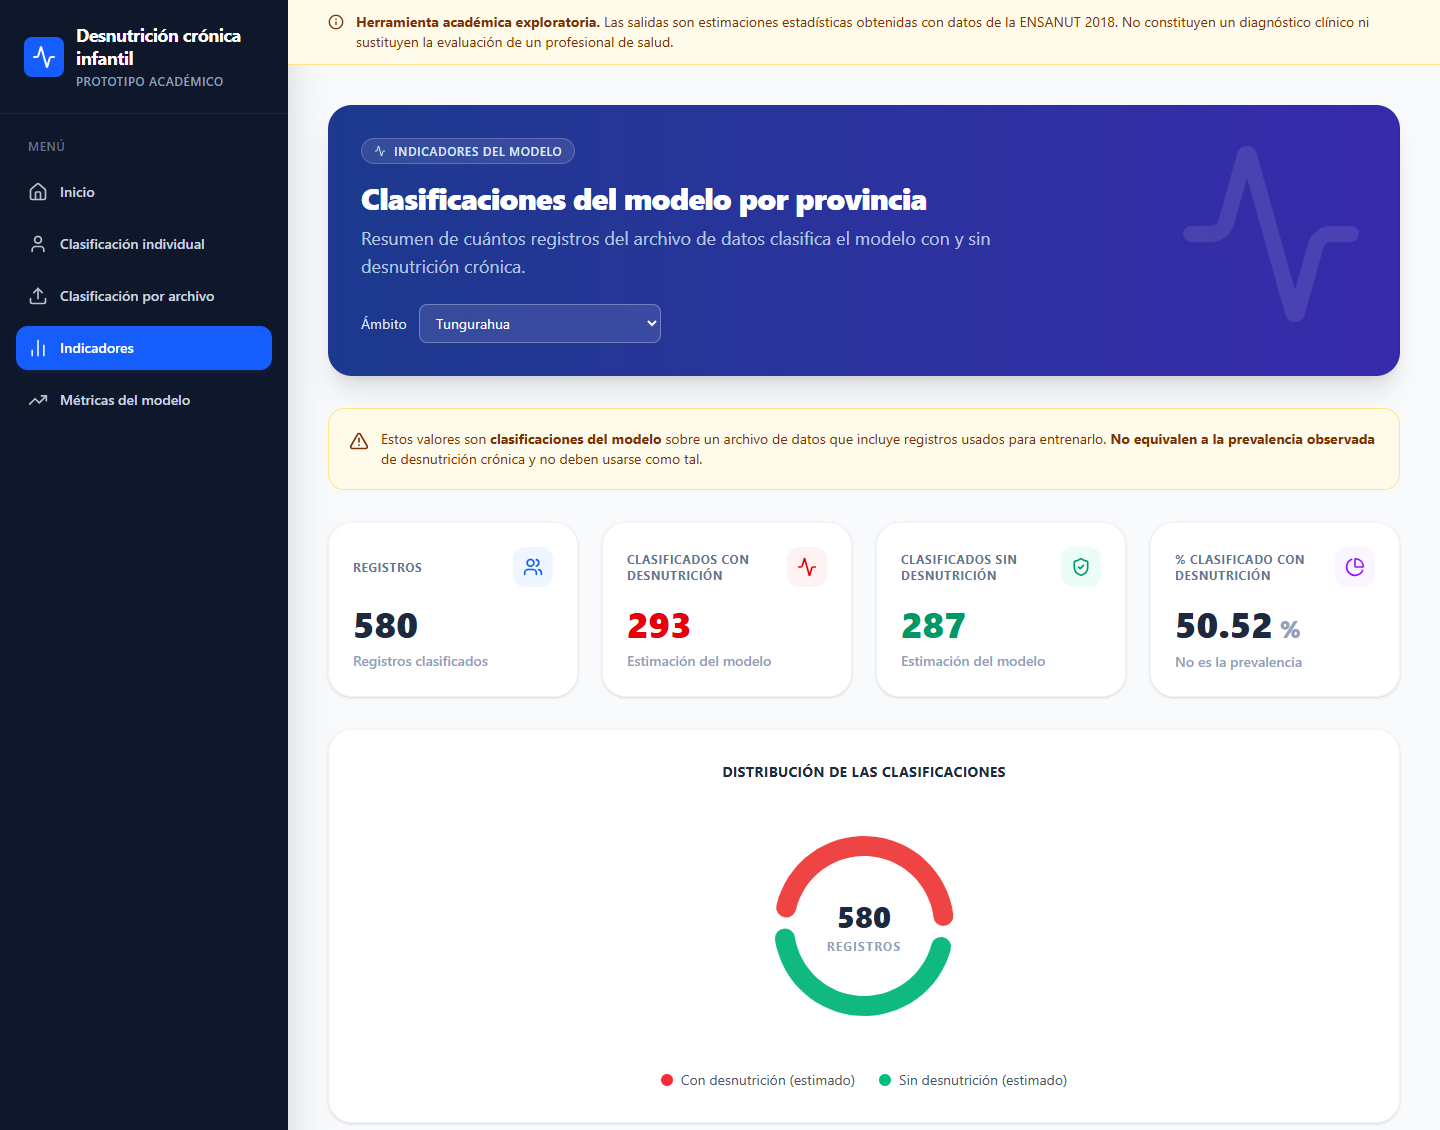
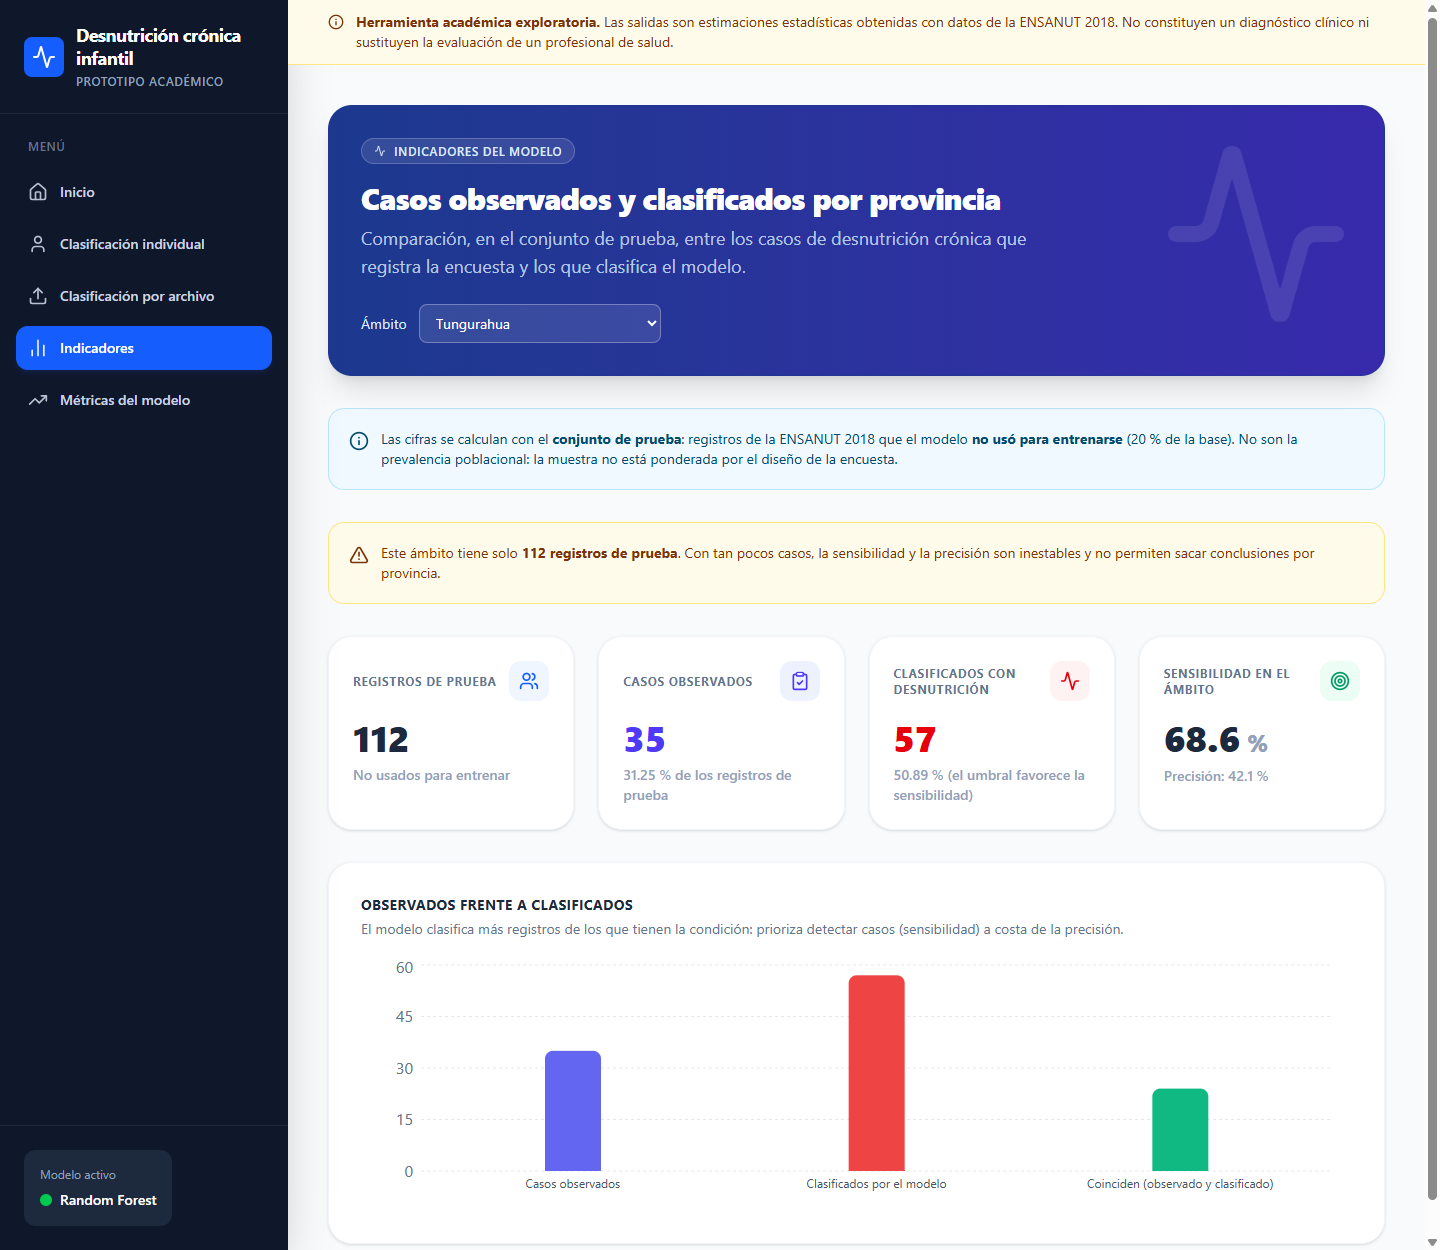
docs(tesis): reflejar la correccion del resumen del tablero
El hallazgo "el resumen usa predicciones sobre datos de entrenamiento" queda
como defecto de la version evaluada inicialmente, corregido en d785b95
(pipeline-v2-fixes) y edf40ae (main).

- Anexo C: CP9 y CP10 re-ejecutados con el servicio corregido (conjunto de
  prueba: 3699 registros, 912 observados, 1887 clasificados; Tungurahua: 112,
  35 y 57) y nota sobre los valores de la version inicial.
- Anexo B.5: descripcion del modulo y captura nueva de Indicadores (Tungurahua,
  con el aviso de pocos registros). Anexo A: data/ y tests/.
- Cap. III: hallazgo redactado como corregido; RF6 pasa a Cumple (13 de 15
  requerimientos, 1 parcial, 1 no); 13 pruebas automaticas aprobadas.
- Cap. II y IV: contrato de /dashboard; se retiran la recomendacion y el
  pendiente correspondientes.
- Anexo E: se agregan los commits del cambio.

Claude-Session: https://claude.ai/code/session_01N4GjRxEMLVoX1YszaZcf4e

diff --git a/TESIS-LATEX/capitulos/cap3-implementacion.tex b/TESIS-LATEX/capitulos/cap3-implementacion.tex
@@ -87,7 +87,7 @@ Se realizaron dos tipos de pruebas, que evalúan aspectos distintos y no deben c
   \item \textbf{Pruebas funcionales de la API:} verifican que el servicio responda según su contrato. Un resultado favorable indica que el software funciona, no que la predicción sea válida clínicamente.
 \end{itemize}
 
-Las pruebas funcionales incluyeron 17 casos (Anexo~C) y las 8 pruebas automáticas del repositorio. Las 8 pruebas y 15 de los 17 casos se cumplieron; fallaron CP14 (archivo Excel enviado directamente a la API) y CP15 (la puntuación del formulario individual casi no varía con los datos). La latencia de \texttt{POST /predict}, medida en 100 solicitudes en ejecución local (sin red), tuvo mediana de 29 ms, percentil 95 de 33 ms y máximo de 38 ms. Como comprobación de consistencia, la probabilidad devuelta por la API para un registro coincidió con la calculada directamente sobre el modelo (0.437).
+Las pruebas funcionales incluyeron 17 casos (Anexo~C) y las 13 pruebas automáticas del repositorio. Las 13 pruebas y 15 de los 17 casos se cumplieron; fallaron CP14 (archivo Excel enviado directamente a la API) y CP15 (la puntuación del formulario individual casi no varía con los datos). La latencia de \texttt{POST /predict}, medida en 100 solicitudes en ejecución local (sin red), tuvo mediana de 29 ms, percentil 95 de 33 ms y máximo de 38 ms. Como comprobación de consistencia, la probabilidad devuelta por la API para un registro coincidió con la calculada directamente sobre el modelo (0.437).
 
 \section{Resultados}
 \subsection{Desempeño en el conjunto de prueba nacional}
@@ -191,12 +191,12 @@ El estudio con datos de la ENDI 2023--2024 reportó AUC de 0.62 a 0.66 para el r
 Las pruebas del sistema revelaron aspectos que deben tenerse en cuenta:
 \begin{itemize}
   \item \textbf{Riesgo y clase no coincidían.} En la versión evaluada inicialmente la clase positiva se asignaba con el umbral de 0.42, pero los niveles de riesgo usaban cortes fijos de 0.50 (medio) y 0.80 (alto). En el caso CP4 la API devolvió clase 1 con probabilidad de 0.437 y riesgo BAJO; en la partición de prueba, 1050 de las 1887 clasificaciones positivas (\SI{55.6}{\percent}) figuraban como BAJO y ALTO nunca se alcanzaba (probabilidad máxima de 0.747). Se corrigió: BAJO coincide ahora con la clase 0, MEDIO va de 0.42 a 0.60 y ALTO desde 0.60 (Anexo~A, Tabla~\ref{tab:riesgo}). Los niveles ordenan los casos, pero no son probabilidades calibradas.
-  \item \textbf{El resumen del tablero usa predicciones sobre datos de entrenamiento.} \texttt{GET /dashboard} calcula los ``casos'' como positivos predichos por el modelo sobre el archivo completo (\num{20510} registros, que incluye los usados para entrenar), por lo que no equivale a la prevalencia observada (\SI{24.7}{\percent}).
+  \item \textbf{El resumen del tablero usaba predicciones sobre datos de entrenamiento.} En la versión evaluada inicialmente, \texttt{GET /dashboard} calculaba los ``casos'' como positivos predichos por el modelo sobre el archivo completo (\num{20510} registros, que incluye los usados para entrenar), por lo que no equivalía a la prevalencia observada (\SI{24.7}{\percent}). Se corrigió: el resumen usa el conjunto de prueba (\num{3699} registros que el modelo no vio al entrenar) y muestra juntos los casos observados (912) y los clasificados (\num{1887}), con la sensibilidad y la precisión del ámbito, que reproducen las métricas del modelo (0.693 y 0.335). En Tungurahua (112 registros) hay 35 casos observados y 57 clasificados, con una sensibilidad de 0.686 que es inestable por el tamaño de la muestra.
   \item \textbf{Imputación previa a la partición y muy alta en variables clave.} Los faltantes se imputaron antes de dividir los datos, y variables muy importantes del modelo tienen más de la mitad de sus valores imputados (peso y talla al nacer). Como un valor imputado coincide con la mediana, el modelo puede estar usando el hecho de que el dato faltaba y no el valor real; su importancia debe interpretarse con esa reserva.
   \item \textbf{El formulario de clasificación individual solo es ilustrativo.} La versión inicial del tablero pedía 8 datos y completaba las otras 106 variables con el valor 0 (y las categóricas con códigos numéricos que el modelo no vio en el entrenamiento): en 270 combinaciones la probabilidad varió solo de 0.436 a 0.512 y todas quedaron clasificadas con desnutrición. Se corrigió: el formulario envía las 114 variables (las no informadas como nulas, que el \textit{Pipeline} imputa) con las categorías válidas y la edad agrupada correcta. Aun así, en 512 combinaciones de prueba la probabilidad varió solo de 0.375 a 0.515 y el \SI{85.5}{\percent} quedó clasificado con desnutrición (CP15), porque el resto de las variables se imputa. Por eso la pantalla lo declara de uso ilustrativo y remite a la clasificación por archivo.
   \item \textbf{Carga de archivos Excel.} La pantalla mencionaba archivos \texttt{.xlsx}, pero el servicio solo lee CSV y un Excel enviado a la API produce una excepción no controlada (CP14). El tablero ahora acepta solo CSV y muestra un mensaje claro con las columnas faltantes (CP16); la API aún no maneja el Excel de forma controlada.
   \item \textbf{Página de métricas del tablero.} Leía los nombres de métricas de la versión anterior (\texttt{accuracy}, \texttt{recall}\ldots) y con la API v2 habría mostrado valores no numéricos; se actualizó para mostrar la sensibilidad, la precisión, el F1, la exactitud balanceada, el ROC-AUC y el PR-AUC de \texttt{metricas\_v2.json}.
-  \item \textbf{Lenguaje de la interfaz.} La interfaz inicial usaba términos clínicos (``Sistema ML Clínico'', ``Predicción Clínica'', ``alto grado de confianza clínica'') y mencionaba XGBoost, aunque el modelo activo es Random Forest. Se corrigió: todas las pantallas muestran un aviso de herramienta académica exploratoria, se retiró el lenguaje clínico, el nombre del modelo se lee de la API y el resumen de indicadores aclara que no es la prevalencia observada (Anexo~B).
+  \item \textbf{Lenguaje de la interfaz.} La interfaz inicial usaba términos clínicos (``Sistema ML Clínico'', ``Predicción Clínica'', ``alto grado de confianza clínica'') y mencionaba XGBoost, aunque el modelo activo es Random Forest. Se corrigió: todas las pantallas muestran un aviso de herramienta académica exploratoria, se retiró el lenguaje clínico, el nombre del modelo se lee de la API y el resumen de indicadores aclara que las cifras son del conjunto de prueba y no la prevalencia poblacional (Anexo~B).
 \end{itemize}
 
 \subsection{Síntesis de resultados}
@@ -214,7 +214,7 @@ La Tabla~\ref{tab:cumplimiento} indica el estado de cada requerimiento según la
     RF3 & Cumple & CP4 a CP7 (Anexo~C)\\ \hline
     RF4 & Parcial & CP8: un CSV de 50 registros devuelve 50 filas; CP14: un archivo Excel produce un error no controlado\\ \hline
     RF5 & Cumple & CP11: métricas idénticas a \texttt{metricas\_v2.json}\\ \hline
-    RF6 & Parcial & CP9, CP10 y CP12 responden, pero el resumen usa predicciones sobre datos de entrenamiento\\ \hline
+    RF6 & Cumple & CP9, CP10 y CP12: el resumen usa el conjunto de prueba y reproduce las métricas de \texttt{metricas\_v2.json}\\ \hline
     RF7 & Cumple & CP13\\ \hline
     RF8 & Cumple & Prueba de contrato de versión del modelo\\ \hline
     RNF1 & Cumple & CP5, CP6 y CP7: HTTP 400 en los tres casos\\ \hline
@@ -222,12 +222,12 @@ La Tabla~\ref{tab:cumplimiento} indica el estado de cada requerimiento según la
     RNF3 & Cumple & CP1 (\texttt{GET /health}). No se midió disponibilidad en el tiempo\\ \hline
     RNF4 & No cumple & La API no implementa autenticación; el CORS está abierto\\ \hline
     RNF5 & Cumple & Semilla y versiones fijadas en \texttt{requirements.txt}\\ \hline
-    RNF6 & Cumple & Módulos separados y 8 pruebas automáticas aprobadas\\ \hline
+    RNF6 & Cumple & Módulos separados y 13 pruebas automáticas aprobadas\\ \hline
     RNF7 & Cumple & Aviso académico visible en todas las pantallas y lenguaje clínico retirado (Anexo~B)\\ \hline
   \end{tabular}
 \end{table}
 
-En síntesis, el prototipo cumple 12 de los 15 requerimientos, 2 parcialmente y 1 no se cumple. El modelo tiene un desempeño moderado (ROC-AUC de 0.677), sobreajuste medido y ninguna validación externa; sus productos son una API funcional con datos completos y un tablero de consulta cuyo formulario individual solo es ilustrativo. Quedan pendientes la autenticación, la corrección en la API del resumen del tablero y de la lectura de Excel, y la validación con una fuente independiente.
+En síntesis, el prototipo cumple 13 de los 15 requerimientos, 1 parcialmente y 1 no se cumple. El modelo tiene un desempeño moderado (ROC-AUC de 0.677), sobreajuste medido y ninguna validación externa; sus productos son una API funcional con datos completos y un tablero de consulta cuyo formulario individual solo es ilustrativo. Quedan pendientes la autenticación, la corrección en la API de la lectura de Excel, y la validación con una fuente independiente.
 
 \section{Cronograma y Presupuesto}
 \subsection{Cronograma de Ejecución}

diff --git a/TESIS-LATEX/capitulos/cap4-conclusiones.tex b/TESIS-LATEX/capitulos/cap4-conclusiones.tex
@@ -11,7 +11,7 @@ Se desarrolló y evaluó un prototipo académico de clasificación de la desnutr
 
 \noindent\hspace*{\parindent}\textbf{Objetivo 4: API y tablero.} Se implementó una API REST con nueve servicios, que valida las 114 variables de entrada, y un tablero web que consume la API para consultar indicadores, métricas y predicciones.
 
-\noindent\hspace*{\parindent}\textbf{Objetivo 5: validación funcional y limitaciones.} Las 8 pruebas automáticas y 15 de los 17 casos de prueba se cumplieron (fallaron el envío de un Excel a la API y la variación de la puntuación del formulario individual), y la latencia mediana fue de 29 ms en ejecución local. Estas pruebas verifican el funcionamiento del software y no la validez predictiva ni clínica. Se identificó que el nivel de riesgo contradecía la clase asignada (corregido: BAJO coincide ahora con la clase 0), que el resumen del tablero usa predicciones sobre datos de entrenamiento, que la puntuación del formulario individual casi no varía con los datos porque el resto de las variables se imputa, y que la API no tiene autenticación.
+\noindent\hspace*{\parindent}\textbf{Objetivo 5: validación funcional y limitaciones.} Las 13 pruebas automáticas y 15 de los 17 casos de prueba se cumplieron (fallaron el envío de un Excel a la API y la variación de la puntuación del formulario individual), y la latencia mediana fue de 29 ms en ejecución local. Estas pruebas verifican el funcionamiento del software y no la validez predictiva ni clínica. Se identificó que el nivel de riesgo contradecía la clase asignada (corregido: BAJO coincide ahora con la clase 0), que el resumen del tablero usaba predicciones sobre datos de entrenamiento (corregido: ahora usa el conjunto de prueba), que la puntuación del formulario individual casi no varía con los datos porque el resto de las variables se imputa, y que la API no tiene autenticación.
 
 \subsection{Limitaciones}
 \begin{itemize}
@@ -32,7 +32,6 @@ Se desarrolló y evaluó un prototipo académico de clasificación de la desnutr
 \section{Recomendaciones y Trabajos Futuros}
 \subsection{Recomendaciones inmediatas}
 \begin{itemize}
-  \item \textbf{Corregir el resumen del tablero:} calcular los indicadores con los datos observados o con el conjunto de prueba, no con predicciones sobre datos de entrenamiento.
   \item \textbf{Corregir la lectura de archivos en la API:} aceptar Excel o rechazarlo con un error controlado.
   \item \textbf{Decidir el futuro del formulario individual:} mantenerlo solo como ilustración o reemplazarlo por una carga de un registro completo.
   \item \textbf{Proteger la API:} agregar autenticación y restringir el origen de las solicitudes antes de cualquier despliegue abierto.

diff --git a/TESIS-LATEX/capitulos/cap2-metodologia.tex b/TESIS-LATEX/capitulos/cap2-metodologia.tex
@@ -271,7 +271,7 @@ La Tabla~\ref{tab:api} presenta los servicios expuestos. Las respuestas de \text
     \texttt{/features} & GET & Ninguna & Número y lista de variables del modelo\\ \hline
     \texttt{/predict} & POST & JSON con las 114 variables & Clase, probabilidad y riesgo; HTTP 400 si no coinciden\\ \hline
     \texttt{/predict-file} & POST & Archivo (formulario multipart) & Archivo \texttt{.xlsx} con predicciones\\ \hline
-    \texttt{/dashboard} & GET & Provincia opcional (nombre) & Registros, casos y porcentaje\\ \hline
+    \texttt{/dashboard} & GET & Provincia opcional (nombre) & Registros de prueba, casos observados y clasificados, sensibilidad y precisión\\ \hline
     \texttt{/dashboard/}\allowbreak\texttt{metricas} & GET & Ninguna & Métricas del modelo (v2)\\ \hline
     \texttt{/dashboard/}\allowbreak\texttt{importancia} & GET & Ninguna & Importancia por variable\\ \hline
     \texttt{/docs} & GET & Ninguna & Documentación interactiva (OpenAPI)\\ \hline

diff --git a/TESIS-LATEX/README.md b/TESIS-LATEX/README.md
@@ -25,6 +25,6 @@ subgrupos, prueba sin variables de diseño, importancia, diccionario y pruebas d
 6. URLs públicas de la API y del dashboard (Anexo B.2). (Repositorio y hash ya documentados en Anexo E; `LIMPIEZA.ipynb` recuperado del commit 1b4b767: imputación con moda/mediana sobre la base completa.)
 
 ## Hallazgos del prototipo/datos (ya documentados en cap. III–IV)
-Riesgo BAJO con clase 1 (CORREGIDO en 7b37205 / 588d8fe: BAJO <=> clase 0, ALTO desde 0.60); `/dashboard` resume predicciones sobre datos de entrenamiento; sin autenticación;
+Riesgo BAJO con clase 1 (CORREGIDO en 7b37205 / 588d8fe: BAJO <=> clase 0, ALTO desde 0.60); `/dashboard` resumía predicciones sobre datos de entrenamiento (CORREGIDO en d785b95 / edf40ae: usa el conjunto de prueba); sin autenticación;
 formulario individual rellena 106 variables con 0 (siempre clase 1); `.xlsx` → excepción; 84/114 predictores con
 nulos originales imputados antes de la partición; sensibilidad muy distinta por área/edad; Brier peor que la prevalencia.
